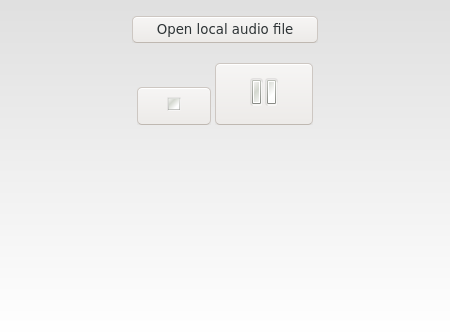
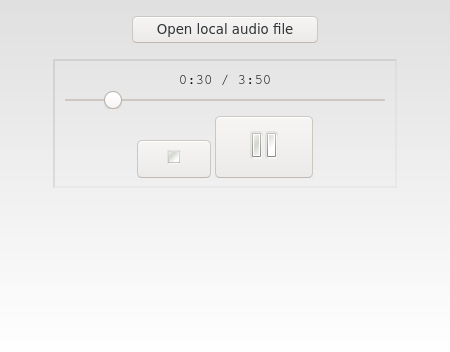
Updated screenshot.

diff --git a/readme.md b/readme.md
@@ -1,4 +1,4 @@
 
 Another tiny Vue.js app. Revolves around basic use of the Web Audio API.
 
-![A tiny page. Long button at top "open local audio file", thick stop button at bottom left, relatively larger pause button at bottom right. All against a grey-white gradient background](screenshot.png)
+![At page top, a long "open local audio file" button. Below it, a small inset player panel, containing a timestamp label, a slider, then a small stop button, and a large pause button beside it. The stop button and pause button only have graphic icons.](screenshot.png)
